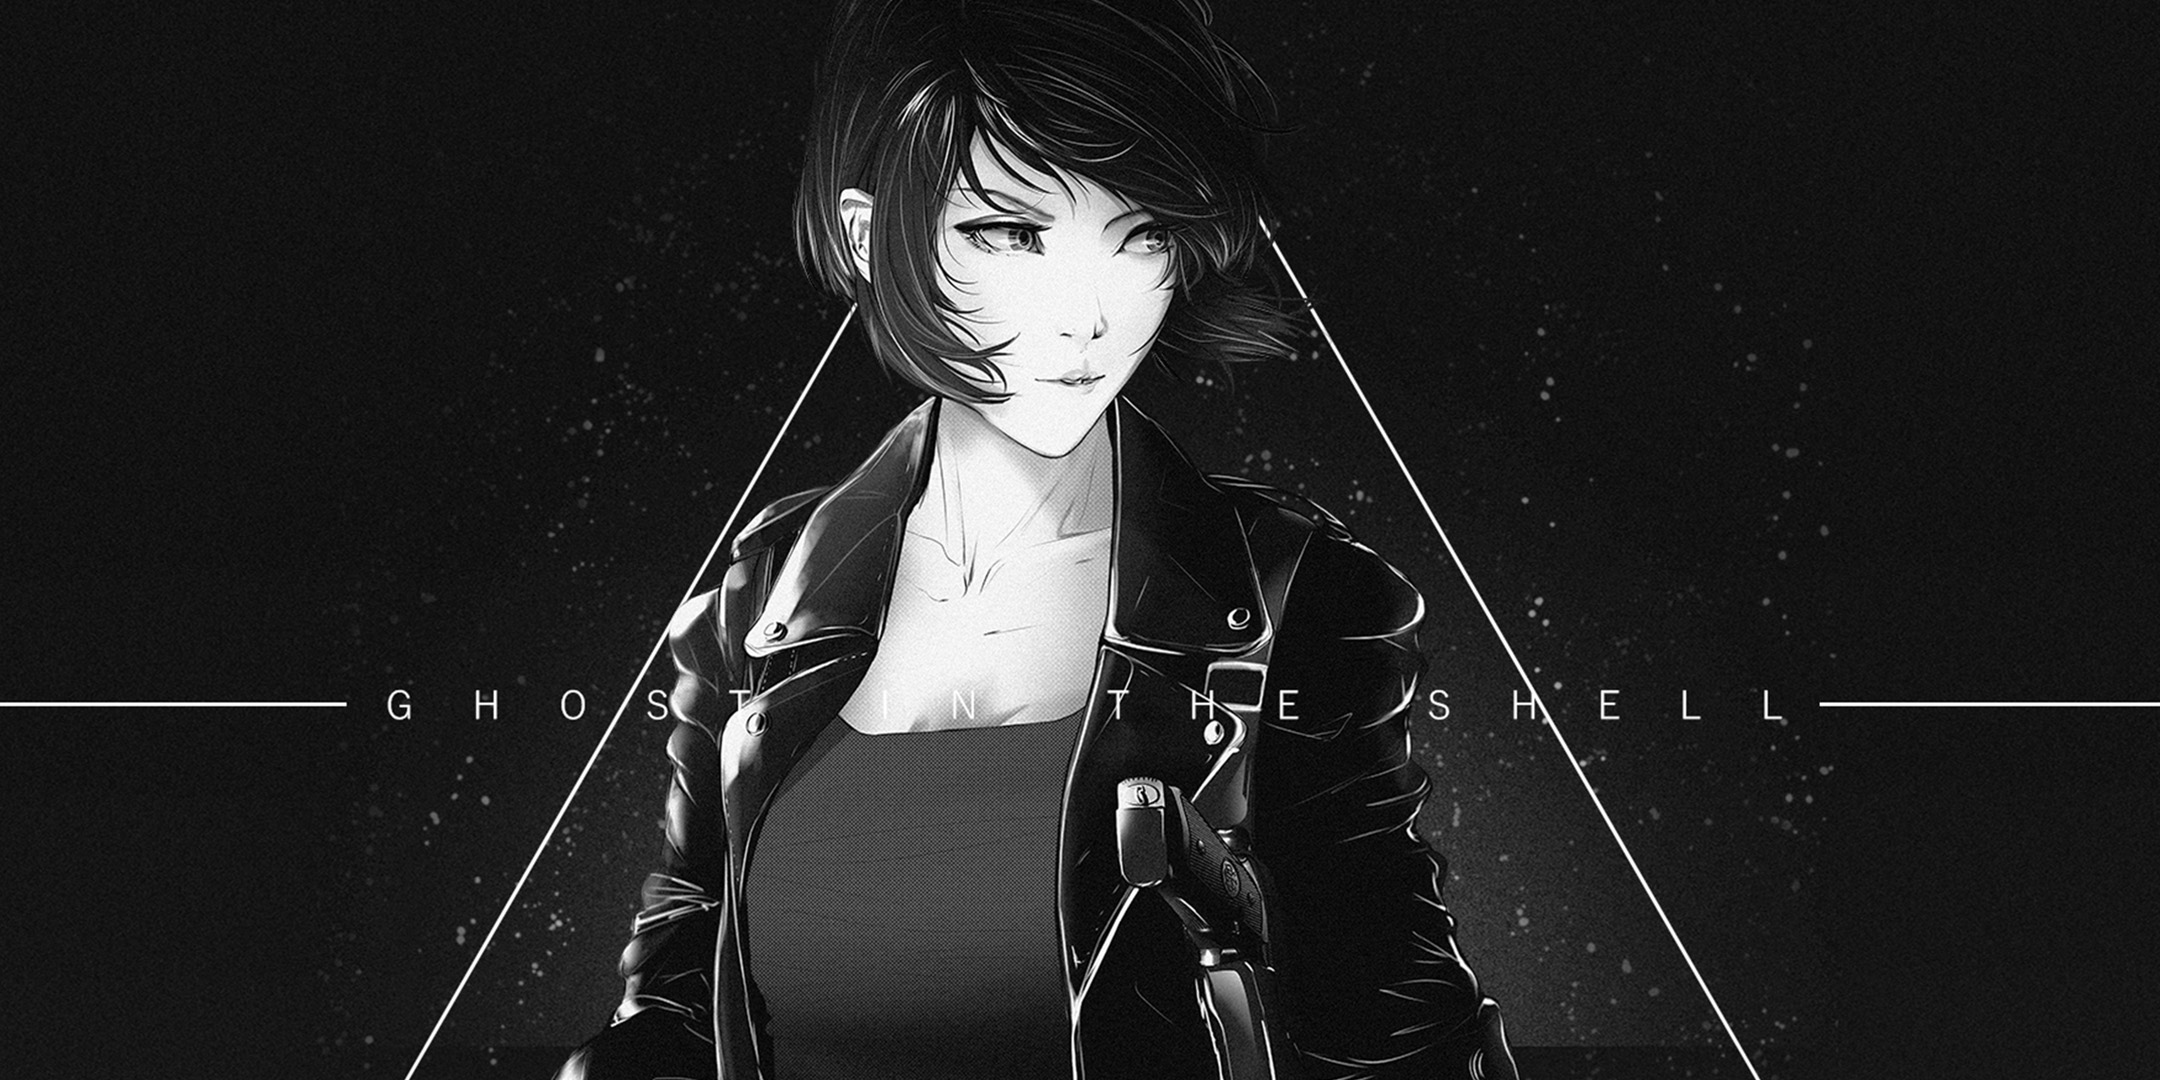
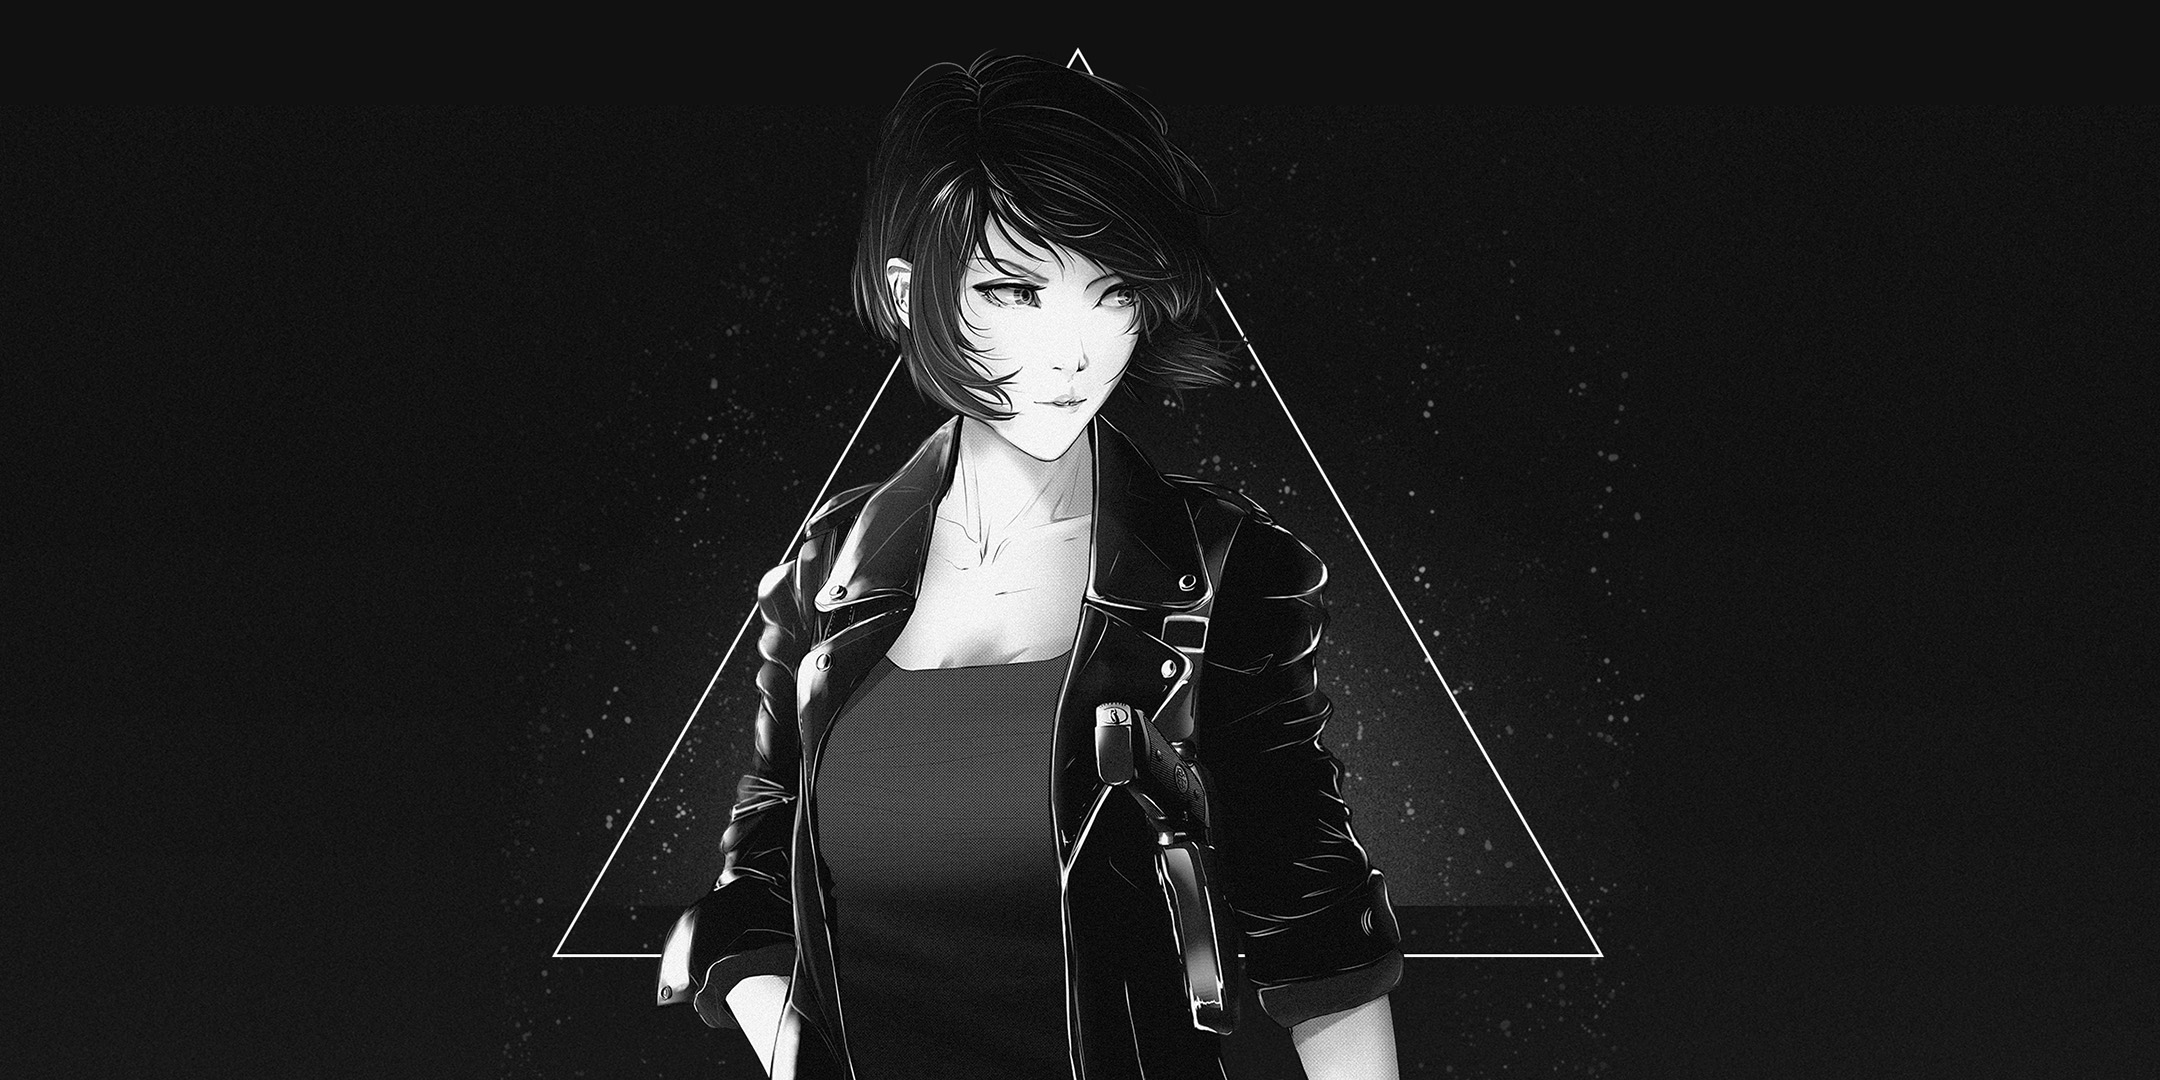
polish

diff --git a/css/rl_style.css b/css/rl_style.css
@@ -240,7 +240,7 @@ i{
 
   background: url("../images/foxhound_banner.jpg") 55% no-repeat;
   background-size: cover;
-  height: 600px;
+  height: 750px;
   text-align: center;
   display: -webkit-flex;
   display: -ms-flexbox;
@@ -257,7 +257,7 @@ i{
 @media screen and (max-width: 1400px) {
 .hero-section_foxhound {
   background-position: 40%;
-  height: 300px;
+  height: 500px;
 }
 }
 

diff --git a/index.html b/index.html
@@ -171,7 +171,6 @@
       </div>
     </div>
   </div>
-
 </footer>
 
 </html>
